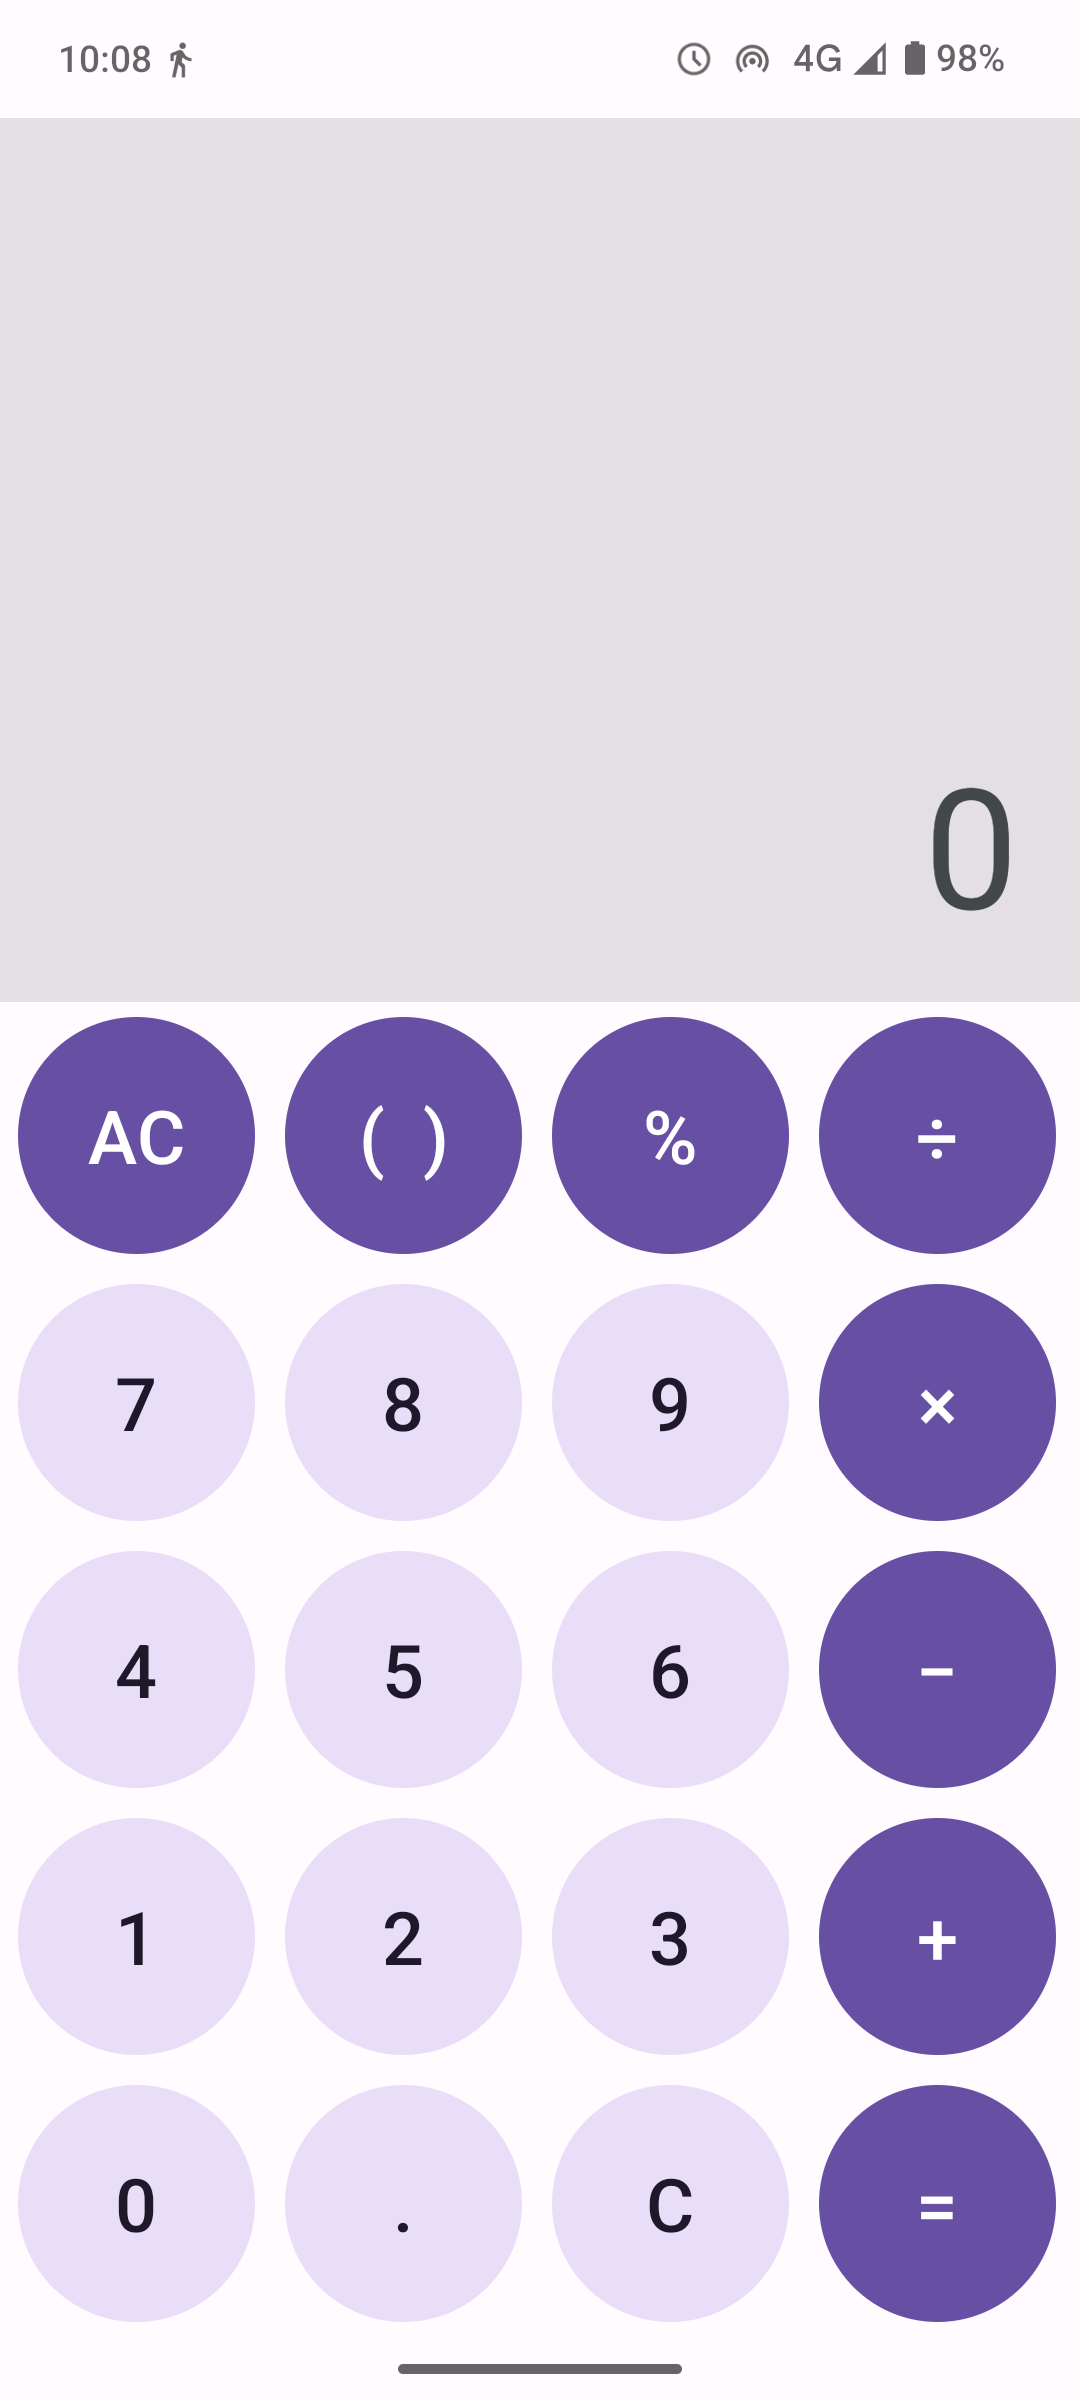
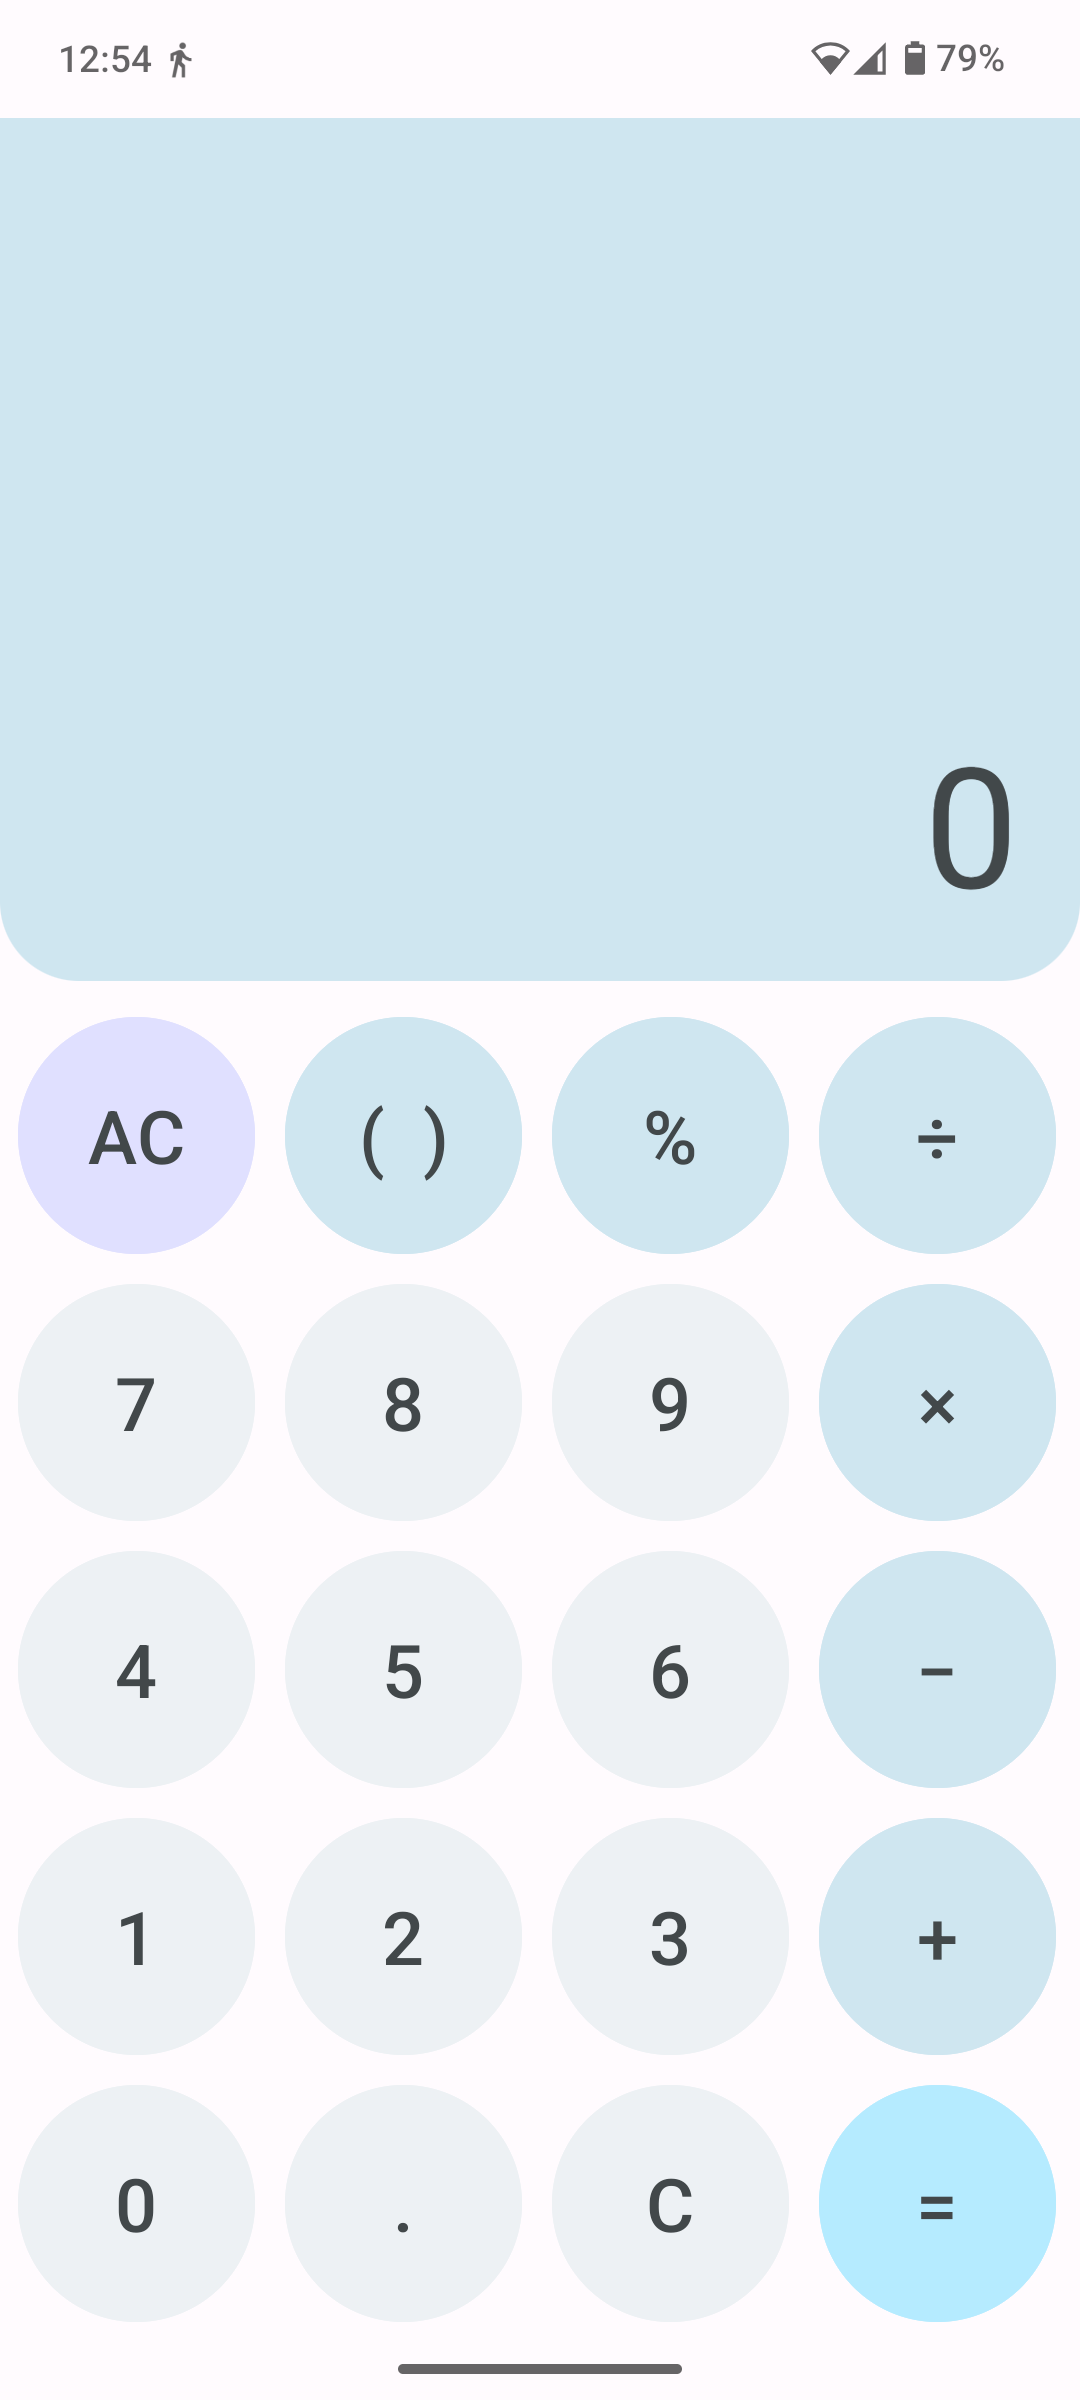
Changed README.md

diff --git a/README.md b/README.md
@@ -1,17 +1,18 @@
-<p align=center><image src="./app/src/main/ic_launcher-playstore.png" height="150" /></p>
+<p align=center><image src="./docs/images/Logo.png" height="150" /></p>
 <h1 align="center">Simple Calc</h1>
 
-Simple Calc is a simple calcuator made with Java for Android 7.0 and forward, built to add, substract, multiply and divide.
+Simple Calc is a simple calcuator made with Java for Android 7.0 and forward, built to serve basic calculator functionalities.
 
 ## Features
 
 - Standard Calculator functionaloity with simple comands as add, divide, substract, multiply and divide.
+- Semi-advanced functionalities, such as percentages, parenthesis handling and non integers.
 - Complete precision over calculations.
 - Lightweight size. It weights less than 1mb (APK size).
 
 ## Screenshots
 
-<div display="flex">
+<div display="flex" align=center>
     <img src="./docs/images/CalculatorScreenshot1.png" height="512" style="margin-right: 20px;">
     <img src="./docs/images/CalculatorScreenshot2.png" height="512">
 </div>
